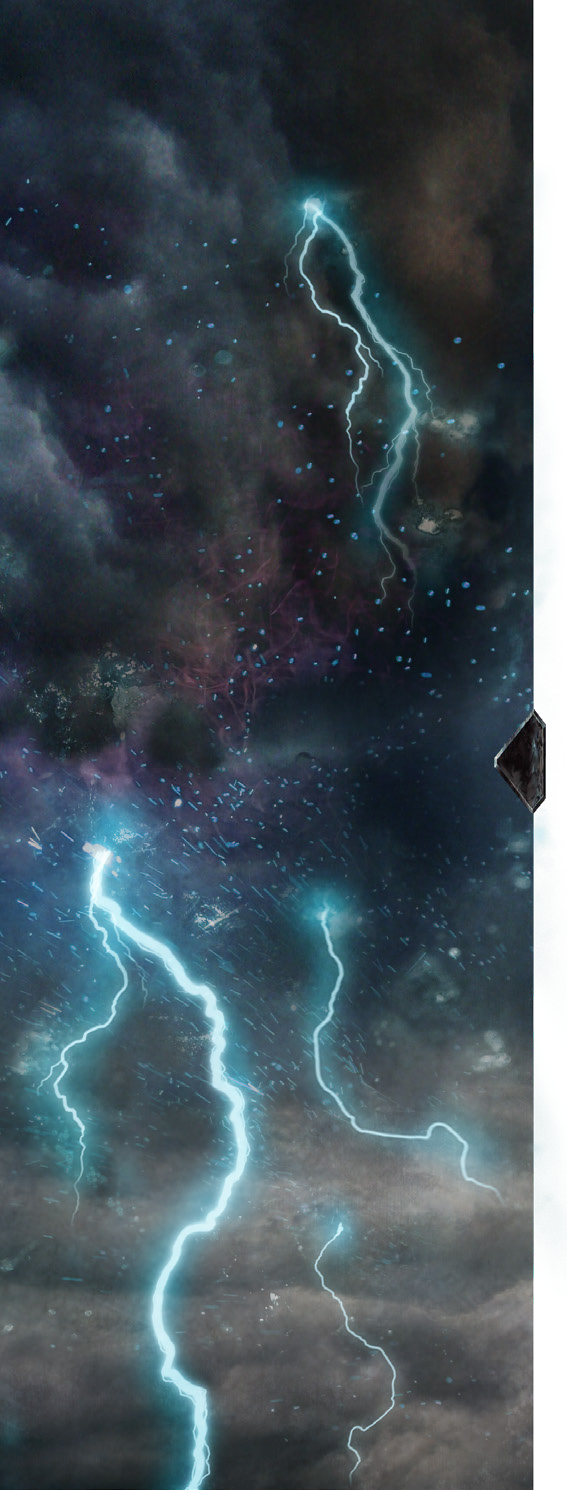
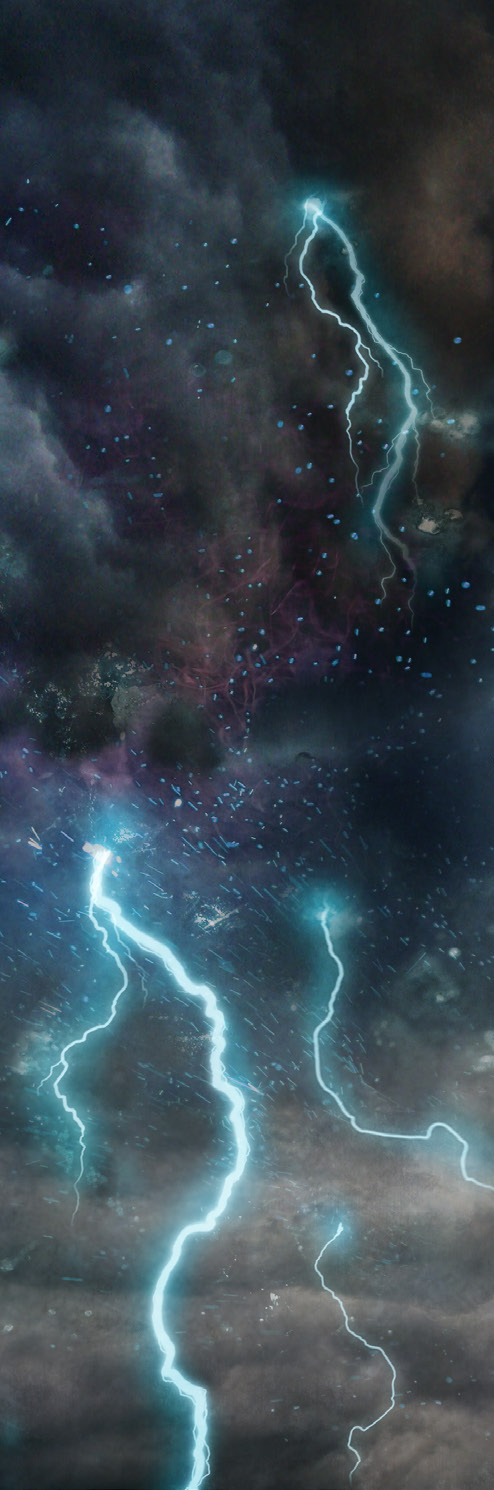
styling chat area

diff --git a/css/torgeternity.css b/css/torgeternity.css
@@ -228,7 +228,7 @@ body {
 
 #sidebar {
   color: white;
-  background-image: url(../images/thunder_black.png);
+  background-image: url(../images/thunder.png);
   background-size: contain;
   border: 1px solid #000;
   border-top-color: black;
@@ -251,7 +251,10 @@ body {
 }
 
 .chat-message {
+  margin: 5px;
   color: black;
+  background: none;
+  background-color: rgba(255, 255, 255, 0.575);
 }
 
 /* Styles limited to torg sheets */

diff --git a/scss/app/ui.scss b/scss/app/ui.scss
@@ -96,7 +96,7 @@ body {
 //------------SIDEBAR
 #sidebar {
     color:white;
-    background-image:url(../images/thunder_black.png);
+    background-image:url(../images/thunder.png);
     background-size:contain;
     border: 1px solid #000;
     border-top-color: rgb(0, 0, 0);

diff --git a/css/app/ui.css b/css/app/ui.css
@@ -95,7 +95,7 @@ body {
 
 #sidebar {
   color: white;
-  background-image: url(../images/thunder_black.png);
+  background-image: url(../images/thunder.png);
   background-size: contain;
   border: 1px solid #000;
   border-top-color: black;

diff --git a/scss/app/chat.scss b/scss/app/chat.scss
@@ -1,3 +1,6 @@
 .chat-message {
-    color:black
+    margin: 5px;
+    color:black;
+    background: none;
+    background-color: rgba(255, 255, 255, 0.575);
 }

diff --git a/css/app/chat.css b/css/app/chat.css
@@ -1,3 +1,6 @@
 .chat-message {
+  margin: 5px;
   color: black;
+  background: none;
+  background-color: rgba(255, 255, 255, 0.575);
 }
